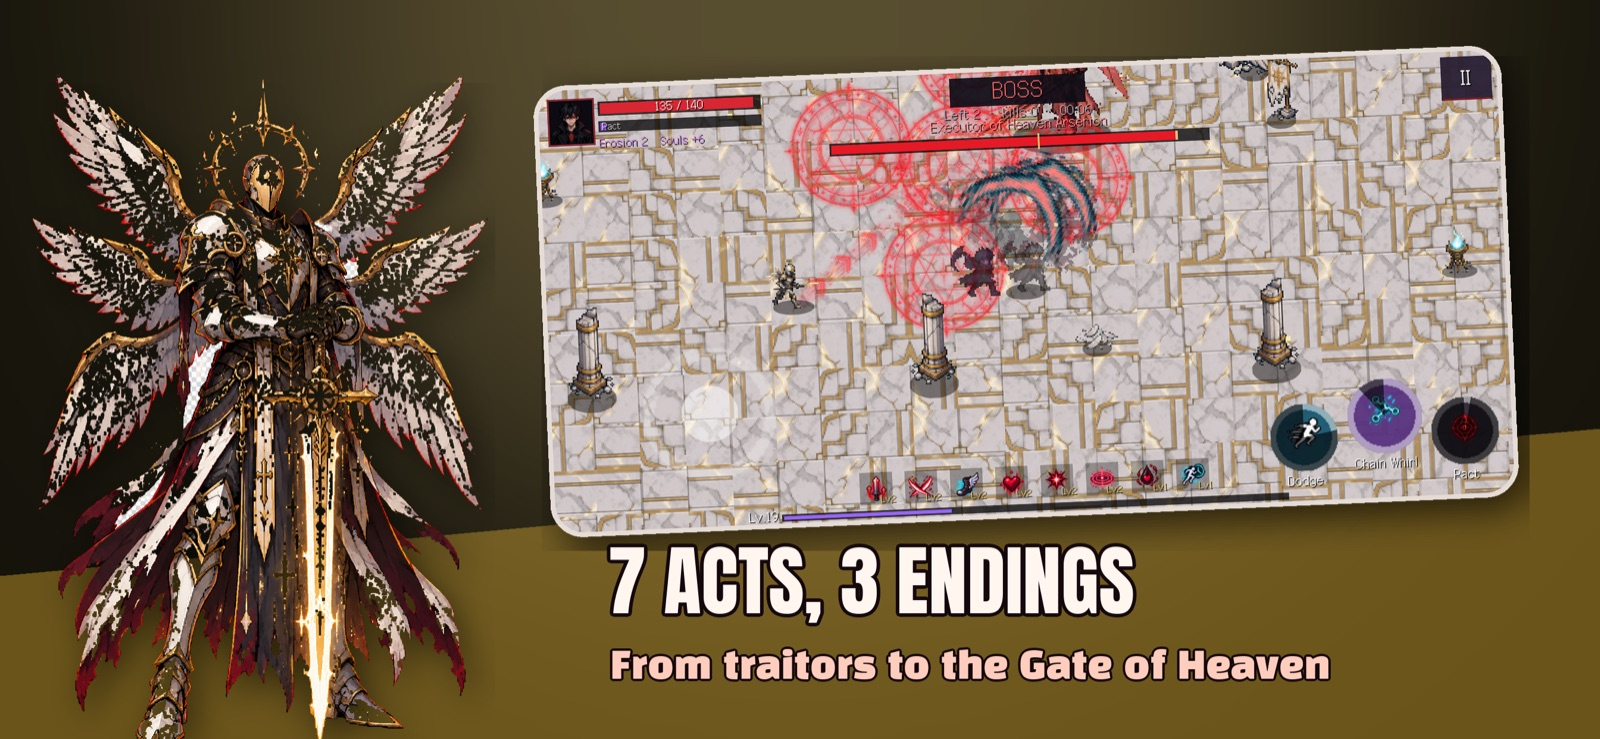
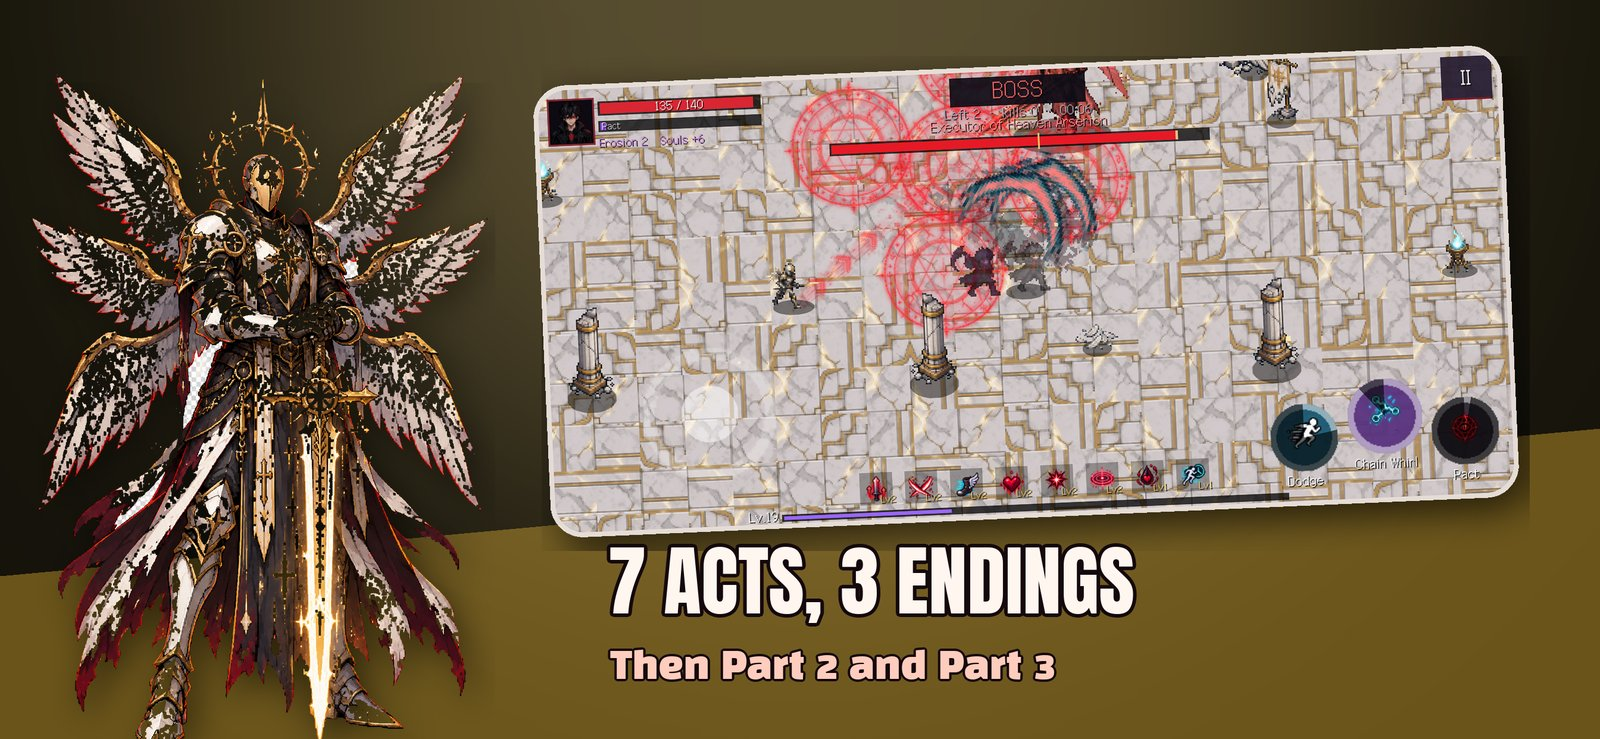
press kit 0.3.2: 사실 바로잡기·일본어·번체 단락과 스크린샷, 지원 페이지 FAQ·환불 안내
- 「Each target takes three stages」(군주 2), 「landscape」→ top-down, 옛 용어 「만남」
- 최신 버전 0.3.1 → 0.3.2, 개발자 표기 GIVEPRO·판매자 이름·채널 링크, AI 그림 고지
- 가장 큰 시장 대만·홍콩과 일본: ja·zh 단락, 언어별 스크린샷, 지역 App Store 링크
- support: App Store 환불은 Apple(reportaproblem) 안내, FAQ(iCloud 세이브·언어·글자·난도)

로컬 커밋만, push 는 원작자 확인 뒤.

diff --git a/press/index.html b/press/index.html
@@ -4,7 +4,7 @@
 <meta charset="utf-8">
 <meta name="viewport" content="width=device-width, initial-scale=1">
 <title>Belkar: The Black Hunter — Press Kit</title>
-<meta name="description" content="Press kit for Belkar: The Black Hunter, a pixel action roguelite for iPhone by a solo developer in Korea.">
+<meta name="description" content="Press kit for Belkar: The Black Hunter, a top-down pixel action roguelite for iPhone by GIVEPRO, one developer in Korea.">
 <meta property="og:title" content="Belkar: The Black Hunter — Press Kit">
 <meta property="og:description" content="A porter left to die in a sealed rift makes a pact with an exiled demon. Pixel action roguelite for iPhone.">
 <meta property="og:image" content="https://givepro91.github.io/belkar-privacy/press/img/en_01.jpg">
@@ -47,11 +47,13 @@ a{color:var(--accent)}
   <img src="img/icon_1024.png" alt="Belkar app icon">
   <div>
     <h1>Belkar: The Black Hunter</h1>
-    <p class="tag">Pixel action roguelite for iPhone · by a solo developer in Korea</p>
+    <p class="tag">Top-down pixel action roguelite for iPhone · by GIVEPRO, one developer in Korea</p>
     <div class="cta">
       <a href="https://apps.apple.com/app/id6815152175">App Store</a>
       <a class="alt" href="https://www.youtube.com/watch?v=ZybnSYE1DMI">Trailer</a>
       <a class="alt" href="#ko">한국어</a>
+      <a class="alt" href="#ja">日本語</a>
+      <a class="alt" href="#zh">繁體中文</a>
     </div>
   </div>
 </header>
@@ -60,27 +62,29 @@ a{color:var(--accent)}
 <section>
   <h2>Fact sheet</h2>
   <dl>
-    <dt>Developer</dt><dd>givepro (solo, Seoul, Korea)</dd>
+    <dt>Developer</dt><dd>GIVEPRO (one person, Seoul, Korea). App Store seller name: KEUNSIK JANG</dd>
     <dt>Release</dt><dd>September 27, 2026 (iPhone)</dd>
-    <dt>Latest</dt><dd>0.3.1 · multilingual update, Sep 29</dd>
+    <dt>Latest</dt><dd>0.3.2 · boss weakness stars, clearer terms · Oct 1</dd>
     <dt>Platform</dt><dd>iPhone · Android in closed testing</dd>
     <dt>Price</dt><dd>One-time purchase. US$2.99 · ¥500 · NT$90 · ₩4,400</dd>
     <dt>Model</dt><dd>No ads · no in-app purchases · plays offline</dd>
     <dt>Languages</dt><dd>English, Japanese, Traditional Chinese, Korean</dd>
     <dt>Genre</dt><dd>Action roguelite, dark fantasy</dd>
     <dt>Contact</dt><dd>givepro91@gmail.com</dd>
+    <dt>Social</dt><dd><a href="https://x.com/givepro_dev">X @givepro_dev</a> · <a href="https://www.youtube.com/@givepro_dev">YouTube @givepro_dev</a></dd>
   </dl>
 </section>
 
 <section>
   <h2>About</h2>
   <p>Yoon Siwoo was a porter, left to die in a sealed rift by his own raid party. At the edge of death he makes a pact with Belkar, an exiled demon: <em>"Feed me your enemies. I will give you their power."</em></p>
-  <p>Belkar is a landscape pixel action roguelite built for touch. Attacks are automatic; the player moves and decides when to use three buttons: dodge, weapon skill, and the pact strike that devours a boss's power. The story follows the hunt from the three traitors of the raid party, through awakened criminals and the lords of hell, to the Gate of Heaven. Three endings, then two more parts after the credits.</p>
+  <p>Belkar is a top-down pixel action roguelite, played in landscape and built for touch. Attacks are automatic; the player moves and decides when to use three buttons: dodge, weapon skill, and the pact (the ultimate) that devours a boss's power. The story follows the hunt from the three traitors of the raid party, through awakened criminals and the lords of hell, to the Gate of Heaven. Three endings, then two more parts after the credits.</p>
   <h2>Features</h2>
   <ul>
-    <li><strong>No boss is met the same way twice.</strong> Each target takes three stages. Before the showdown, every boss shows up its own way (duel, chase, command, ambush, siege or harass) and retreats. Drive it off fast and its weakness grows in the final fight.</li>
+    <li><strong>No boss is met the same way twice.</strong> Traitors, sinners and dukes take three stages; lords take two. Before the showdown, every boss shows up its own way (duel, chase, command, ambush, siege or harass) and retreats. Drive it off fast and its weakness grows in the final fight.</li>
     <li><strong>Steal what you kill.</strong> 4 weapons and 18 boss powers to devour, equip and build around.</li>
-    <li><strong>Erosion.</strong> Every death lets the darkness climb the hero's body. His look and the ending change with it.</li>
+    <li><strong>Erosion.</strong> Every death, Belkar rewinds the hero's heart, and the cost builds up as Erosion. Black cracks climb his body, and the ending changes with it.</li>
+    <li><strong>Gentle at first.</strong> The first targets carry fewer rift mutators, and repeated deaths on the same stage earn Belkar's Blessing (less damage taken) until you break through.</li>
     <li><strong>A hideout that grows.</strong> Companions, a trophy hall of statues of the bosses you beat, rematches in the Rift of Memory, a daily bounty and 33 achievements (Game Center).</li>
     <li><strong>Three parts of story.</strong> A 7-act main story, then Part 2 and Part 3 after the ending.</li>
   </ul>
@@ -104,7 +108,7 @@ a{color:var(--accent)}
   <a href="img/en_05.jpg"><img src="img/en_05.jpg" alt="Hideout trophy hall" loading="lazy"></a>
   <a href="img/en_06.jpg"><img src="img/en_06.jpg" alt="Heaven rift" loading="lazy"></a>
 </div>
-<p class="muted" style="margin-top:8px"><small>Korean UI versions: <a href="img/ko_01.jpg">1</a> · <a href="img/ko_02.jpg">2</a> · <a href="img/ko_03.jpg">3</a> · <a href="img/ko_04.jpg">4</a> · <a href="img/ko_05.jpg">5</a> · <a href="img/ko_06.jpg">6</a></small></p>
+<p class="muted" style="margin-top:8px"><small>Korean UI: <a href="img/ko_01.jpg">1</a> · <a href="img/ko_02.jpg">2</a> · <a href="img/ko_03.jpg">3</a> · <a href="img/ko_04.jpg">4</a> · <a href="img/ko_05.jpg">5</a> · <a href="img/ko_06.jpg">6</a><br>Japanese UI: <a href="img/ja_01.jpg">1</a> · <a href="img/ja_02.jpg">2</a> · <a href="img/ja_03.jpg">3</a> · <a href="img/ja_04.jpg">4</a> · <a href="img/ja_05.jpg">5</a> · <a href="img/ja_06.jpg">6</a><br>Traditional Chinese UI: <a href="img/zh_01.jpg">1</a> · <a href="img/zh_02.jpg">2</a> · <a href="img/zh_03.jpg">3</a> · <a href="img/zh_04.jpg">4</a> · <a href="img/zh_05.jpg">5</a> · <a href="img/zh_06.jpg">6</a></small></p>
 
 <h2>Art (transparent PNG)</h2>
 <div class="art">
@@ -115,19 +119,43 @@ a{color:var(--accent)}
 </div>
 
 <h2>Credits</h2>
-<p>Design, code, story and art direction: givepro. Music: Kevin MacLeod (incompetech.com), CC BY 4.0. Fonts: Galmuri, Cubic 11 (SIL OFL).</p>
+<p>Design, code, story and art direction: GIVEPRO. Art was generated with AI image tools, then cut and retouched by hand into pixel sprites. Music: Kevin MacLeod (incompetech.com), CC BY 4.0. Fonts: Galmuri, Cubic 11 (SIL OFL).</p>
 <p class="muted"><small>All media on this page may be used for coverage of the game. Press copies: email givepro91@gmail.com with your outlet or channel.</small></p>
 
 <section class="lang" id="ko">
   <h2>한국어</h2>
-  <p><strong>벨카르: 검은 사냥꾼</strong>은 한국의 1인 개발자가 만든 가로형 픽셀 액션 로그라이트입니다. 공략대에게 버림받아 봉인된 결계에서 죽어 가던 짐꾼 윤시우가, 추방된 악마 벨카르와 계약하고 배신자부터 지옥의 군주까지 사냥합니다.</p>
+  <p><strong>벨카르: 검은 사냥꾼</strong>은 GIVEPRO가 혼자 만든, 위에서 내려다보는 픽셀 액션 로그라이트입니다. 공략대에게 버림받아 봉인된 결계에서 죽어 가던 짐꾼 윤시우가, 추방된 악마 벨카르와 계약하고 배신자부터 지옥의 군주까지 사냥합니다.</p>
   <ul>
-    <li>보스마다 다른 만남: 결전 전 단계에서 결투·추격·지휘·매복·포위·방해 중 저마다 다른 방식으로 나타났다 물러납니다. 빨리 몰아낼수록 결전에서 약점이 커집니다.</li>
+    <li>보스마다 다른 등장 방식: 결전 전 단계에서 결투·추격·지휘·매복·포위·방해 중 저마다 다른 방식으로 나타났다 물러납니다. 빨리 몰아낼수록 결전에서 약점이 커집니다.</li>
     <li>무기 4종, 잡은 보스에게서 빼앗는 권능 18종, 침식에 따라 바뀌는 외형과 결말.</li>
     <li>7막 본편과 결말 이후의 2부·3부, 업적 33개, 오프라인, 광고·인앱 결제 없음.</li>
     <li>₩4,400 한 번 구매 · 한국어·영어·일본어·번체 중국어.</li>
   </ul>
   <p>문의·리뷰용 사본 요청: givepro91@gmail.com · <a href="https://apps.apple.com/kr/app/id6815152175">App Store</a></p>
+</section>
+
+<section class="lang" id="ja">
+  <h2>日本語</h2>
+  <p><strong>ベルカル：黒き狩人</strong>は、韓国の開発者 GIVEPRO がひとりで作った見下ろし型ドット絵アクションローグライトです。攻略隊に見捨てられ、封印された結界で死にかけた荷物持ちユン・シウが、追放された悪魔ベルカルと契約し、裏切り者から地獄の君主までを狩ります。</p>
+  <ul>
+    <li>ボスごとに違う現れ方：決戦の前の段階で、決闘・追撃・指揮・待ち伏せ・包囲・妨害のいずれかで現れては退きます。早く退けるほど、決戦での弱点が大きくなります。</li>
+    <li>武器4種、倒したボスから奪う権能18種、侵蝕で変わる見た目と結末。</li>
+    <li>全7幕の本編と、結末の先の第2部・第3部。実績33、オフライン、広告・アプリ内課金なし。</li>
+    <li>買い切り ¥500 · 日本語・英語・繁体字中国語・韓国語。</li>
+  </ul>
+  <p>お問い合わせ・レビュー用コード: givepro91@gmail.com · <a href="https://apps.apple.com/jp/app/id6815152175">App Store</a></p>
+</section>
+
+<section class="lang" id="zh">
+  <h2>繁體中文</h2>
+  <p><strong>貝爾卡：黑色獵人</strong>是韓國開發者 GIVEPRO 獨自製作的俯視角像素動作肉鴿遊戲。被攻略隊拋棄、在封印結界中垂死的搬運工尹時宇，與被放逐的惡魔貝爾卡締約，從背叛者一路獵殺到地獄的君主。</p>
+  <ul>
+    <li>每個頭目登場方式都不同：決戰前的階段，頭目會以決鬥、追擊、指揮、伏擊、包圍、妨礙其中一種方式現身後撤退。越快擊退，決戰時弱點越大。</li>
+    <li>4 種武器、從頭目身上奪來的 18 種權能、隨侵蝕改變的外觀與結局。</li>
+    <li>七幕本篇，結局之後還有第二部、第三部。33 項成就、可離線、無廣告與內購。</li>
+    <li>買斷 NT$90 · 支援繁體中文、英文、日文、韓文。</li>
+  </ul>
+  <p>聯絡・評測序號：givepro91@gmail.com · <a href="https://apps.apple.com/tw/app/id6815152175">App Store</a></p>
 </section>
 
 </div></body>

diff --git a/support.html b/support.html
@@ -1,4 +1,23 @@
 <!doctype html><html lang="ko"><head><meta charset="utf-8"><meta name="viewport" content="width=device-width, initial-scale=1"><title>벨카르: 검은 사냥꾼 — 지원 / Support</title>
-<style>body{max-width:720px;margin:0 auto;padding:32px 20px;font:16px/1.7 -apple-system,"Apple SD Gothic Neo","Noto Sans KR",system-ui,sans-serif;color:#1c1a1f;background:#f7f5f2}@media(prefers-color-scheme:dark){body{color:#ece9e4;background:#141317}}</style></head>
-<body><h1>벨카르: 검은 사냥꾼 — 지원</h1><p>문의·버그 제보·환불 관련 요청은 <a href="mailto:givepro91@gmail.com">givepro91@gmail.com</a> 으로 보내 주세요. 보통 3일 안에 답합니다.</p><p><a href="./">개인정보 처리방침</a></p>
-<hr><h1>Belkar: The Black Hunter — Support</h1><p>For questions, bug reports or refund requests, email <a href="mailto:givepro91@gmail.com">givepro91@gmail.com</a>. We usually reply within 3 days.</p><p><a href="./#en">Privacy Policy</a></p></body></html>
+<style>body{max-width:720px;margin:0 auto;padding:32px 20px;font:16px/1.7 -apple-system,"Apple SD Gothic Neo","Hiragino Sans","PingFang TC","Noto Sans KR",system-ui,sans-serif;color:#1c1a1f;background:#f7f5f2}@media(prefers-color-scheme:dark){body{color:#ece9e4;background:#141317}a{color:#ff6b80}}h2{font-size:1.05em;margin:1.6em 0 .4em}</style></head>
+<body>
+<h1>벨카르: 검은 사냥꾼 — 지원</h1>
+<p>문의와 버그 제보는 <a href="mailto:givepro91@gmail.com">givepro91@gmail.com</a> 으로 보내 주세요. 보통 3일 안에 답합니다. 기기 이름과 iOS 버전, 어느 화면에서 일어났는지 적어 주시면 빨리 찾을 수 있습니다.</p>
+<h2>자주 묻는 것</h2>
+<p><b>환불은 어디서 하나요?</b> App Store 구매의 환불은 Apple 이 처리합니다. <a href="https://reportaproblem.apple.com">reportaproblem.apple.com</a> 에서 요청해 주세요.</p>
+<p><b>기기를 바꾸면 진행이 옮겨지나요?</b> 같은 Apple 계정으로 로그인한 iPhone 이면 iCloud 로 세이브가 옮겨집니다. 두 기기 기록이 다르면 어느 쪽을 쓸지 게임이 묻습니다.</p>
+<p><b>언어·글자 크기를 바꾸려면?</b> 은신처 오른쪽 위 「설정」에서 「언어」와 「글자」를 누릅니다.</p>
+<p><b>너무 어려워요.</b> 같은 단계에서 연달아 쓰러지면 다음 도전에서 받는 피해가 줄어듭니다(벨카르의 가호). 하린에게서 계약 심화를 사면 영구히 강해집니다.</p>
+<p><a href="https://apps.apple.com/kr/app/id6815152175">App Store</a> · <a href="press/">프레스 키트</a> · <a href="./">개인정보 처리방침</a></p>
+<hr>
+<h1>Belkar: The Black Hunter — Support</h1>
+<p>For questions and bug reports, email <a href="mailto:givepro91@gmail.com">givepro91@gmail.com</a>. We usually reply within 3 days. Your device, iOS version and the screen where it happened help a lot.</p>
+<h2>FAQ</h2>
+<p><b>Refunds?</b> Apple handles App Store refunds. Request one at <a href="https://reportaproblem.apple.com">reportaproblem.apple.com</a>.</p>
+<p><b>New iPhone?</b> With the same Apple ID, your save moves over through iCloud. If the two saves differ, the game asks which one to keep.</p>
+<p><b>Language or text size?</b> In the hideout, open Settings (top right) and tap Language or Text.</p>
+<p><a href="https://apps.apple.com/app/id6815152175">App Store</a> · <a href="press/">Press kit</a> · <a href="./#en">Privacy Policy</a></p>
+<hr>
+<p lang="ja">日本語：お問い合わせは <a href="mailto:givepro91@gmail.com">givepro91@gmail.com</a> へ。返金は Apple が対応します（<a href="https://reportaproblem.apple.com">reportaproblem.apple.com</a>）。</p>
+<p lang="zh-Hant">繁體中文：問題回報請寄 <a href="mailto:givepro91@gmail.com">givepro91@gmail.com</a>。退款由 Apple 處理（<a href="https://reportaproblem.apple.com">reportaproblem.apple.com</a>）。</p>
+</body></html>
